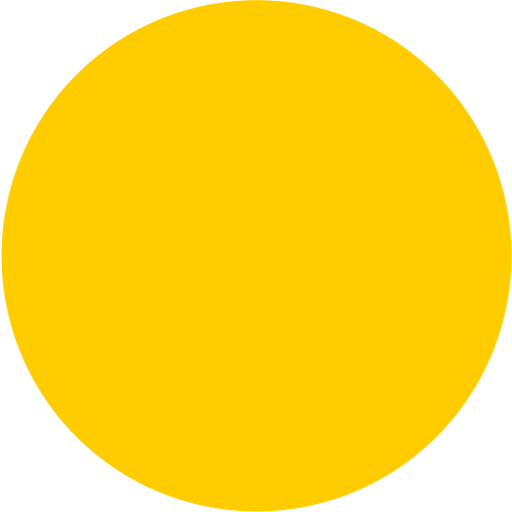
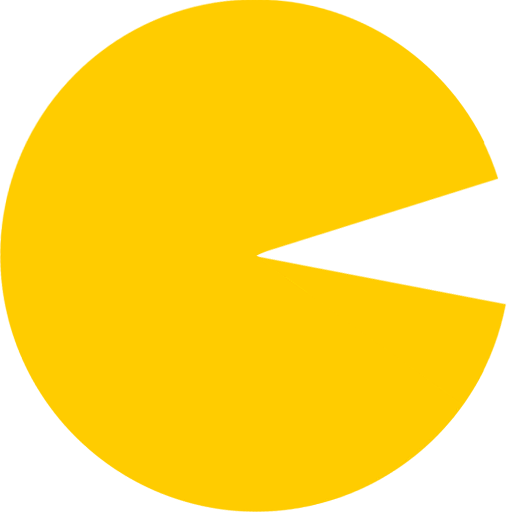
score

diff --git a/src/main/view/GameFrame.java b/src/main/view/GameFrame.java
@@ -22,10 +22,12 @@ public class GameFrame{
 
     private JPanel pan = new JPanel();
     private JPanel panUp = new JPanel();
+    private JPanel panDown = new JPanel();
 
     private JLabel level;
     private JLabel score;
     private JLabel highScore;
+    private JLabel lives;
 
     private Font font;
 
@@ -40,12 +42,23 @@ public class GameFrame{
         frame.setDefaultCloseOperation(WindowConstants.EXIT_ON_CLOSE);
         frame.setResizable(false);
         frame.setPreferredSize(new Dimension(WIDTH,HEIGHT));
+        frame.setContentPane(pan);
+        frame.setDefaultLookAndFeelDecorated(true);
+        frame.setExtendedState(Frame.MAXIMIZED_BOTH);
 
+        //pan.setLayout(new BoxLayout(pan,BoxLayout.PAGE_AXIS));
+
+        JPanel panMain = new JPanel();
+        panMain.setLayout(new BoxLayout(panMain,BoxLayout.Y_AXIS));
 
         panUp.setLayout(new GridLayout(1,2));
+        panDown.setLayout(new GridLayout(1,2));
+
         this.level = new JLabel();
         this.score = new JLabel();
         this.highScore = new JLabel();
+        this.lives = new JLabel();
+
 
         try {
            this.font  = Font.createFont(Font.TRUETYPE_FONT, new File("lib/VCR_OSD_MONO_1.001.ttf")).deriveFont(Font.PLAIN, 40);
@@ -57,6 +70,7 @@ public class GameFrame{
         this.level.setFont(this.font);
         this.score.setFont(this.font);
         this.highScore.setFont(this.font);
+        this.lives.setFont(this.font);
 
         this.level.setText("LEVEL 1");
         this.level.setForeground(Color.WHITE);
@@ -69,15 +83,24 @@ public class GameFrame{
         this.highScore.setForeground(Color.WHITE);
         this.highScore.setHorizontalAlignment(SwingConstants.RIGHT);
 
-        panUp.setBackground(Color.BLACK);
+        this.lives.setText("LIVES");
+        this.lives.setForeground(Color.WHITE);
+        this.lives.setHorizontalAlignment(SwingConstants.LEFT);
+
         pan.setBackground(Color.black);
+        panMain.setBackground(Color.black);
+        panUp.setBackground(Color.black);
+        panDown.setBackground(Color.black);
         canvas = new CanvasPane();
         canvas.setPreferredSize(new Dimension(WIDTH,HEIGHT));
-        frame.setContentPane(pan);
+
         panUp.add(this.score);
         panUp.add(this.highScore);
-        pan.add(panUp);
-        pan.add(canvas);
+        panDown.add(this.lives);
+        panMain.add(panUp);
+        panMain.add(canvas);
+        panMain.add(panDown);
+        pan.add(panMain);
         frame.pack();
 
         objects = new ArrayList<>();
@@ -105,6 +128,16 @@ public class GameFrame{
         this.highScore.validate();
     }
 
+    public void setLives(int lives){
+        if (lives > 1)
+            this.lives.setText("LIVES "+lives);
+        else
+            this.lives.setText("LIVE "+lives);
+        this.lives.validate();
+    }
+
+
+
     public static GameFrame getGameFrame()
     {
         if(instance == null) {
@@ -126,13 +159,15 @@ public class GameFrame{
         frame.setVisible(visible);
     }
 
-    public void setDimensionPan(Dimension dim){
-        System.out.println(this.pan.getSize().width);
-        this.pan.setPreferredSize(dim);
-        this.pan.revalidate();
-        this.panUp.setPreferredSize(dim);
+    public void setDimensionPan(int width, int height){
+        this.canvas.setPreferredSize(new Dimension(width,height));
+        this.canvas.revalidate();
+        this.panUp.setPreferredSize(new Dimension(width,40));
         this.panUp.revalidate();
-        System.out.println(this.pan.getSize().width);
+        this.panDown.setPreferredSize(new Dimension(width,40));
+        this.panDown.revalidate();
+        frame.setDefaultLookAndFeelDecorated(true);
+        frame.setExtendedState(Frame.MAXIMIZED_BOTH);
     }
 
     public void drawCharacter(Character c){

diff --git a/src/main/Game.java b/src/main/Game.java
@@ -22,11 +22,15 @@ public class Game {
         this.initialNumberOfLives = lives;
         this.numberOfLives = initialNumberOfLives;
         this.gameFrame = GameFrame.getGameFrame();
-        this.maze = new Maze(3);
+        this.maze = new Maze(1);
         this.maze.draw();
         this.gameFrame.redraw();
 
+        this.gameFrame.setHighScore(this.highScores.get(0));
+        this.gameFrame.setLives(lives);
+
     }
+
     
     public int getNumberOfLives() {
 		return this.numberOfLives;
@@ -38,6 +42,7 @@ public class Game {
 
 
     public void startGame() {
+        //this.isLost = false;
         this.level = 1;
         this.score = 0;
         boolean pacmanEaten = false;
@@ -82,6 +87,7 @@ public class Game {
                 if (!moved) {
                     nextTilePacman = maze.getTile(pacman, pacman.getDirection());
                     if (nextTilePacman != null) {
+                        // Checks if the tile isn't a wall
                         if (!nextTilePacman.isWall()) {
                             pacman.setLastTile(pacman.getTile());
                             pacman.move(nextTilePacman);
@@ -100,7 +106,6 @@ public class Game {
                                else
                                    score+=maze.getPillValue();
                                pillToRemove = p;
-                               score+=maze.getPillValue();
                                gameFrame.setScore(score);
                                if(score >= this.highScores.get(0)) {
                                    gameFrame.setHighScore(score);
@@ -161,7 +166,7 @@ public class Game {
 		    for(Ghost g: maze.getGhosts()) {
 		        g.erase();
             }
-		    this.maze = new Maze(3);
+		    this.maze = new Maze(2);
 
 
             this.maze.draw();
@@ -171,15 +176,23 @@ public class Game {
     }
 
     public void endGame() {
-        System.out.println("GAME OVER !");
-        this.highScores.add(score);
+        int sizeHighScores = this.highScores.size();
+        if(score > this.highScores.get(sizeHighScores-1)){
+            if(sizeHighScores < 10)
+                this.highScores.add(score);
+            else
+                this.highScores.add(sizeHighScores-1,score);
+        }
+
         Collections.sort(this.highScores);
+        Collections.reverse(this.highScores);
         saveHighScores();
 
     }
 
     public void loseLife() {
         this.numberOfLives--;
+        gameFrame.setLives(numberOfLives);
         Tile pacmanSpawnTile = null;
         Tile ghostSpawnTile = null;
         for(Tile t: this.getMaze().getTiles()) {
@@ -222,6 +235,7 @@ public class Game {
                 this.highScores.add(0);
             }
             Collections.sort(this.highScores);
+            Collections.reverse(this.highScores);
         }
         catch (Exception e){
             System.out.println(e.toString());

diff --git a/src/main/Pacman.java b/src/main/Pacman.java
@@ -15,9 +15,10 @@ public class Pacman extends Character {
     private Direction wantedDirection;
     private Direction direction;
 
-    protected BufferedImage image_op = null;
-    protected BufferedImage image_cl = null;
-    protected BufferedImage imageActual = null;
+    private BufferedImage image_op = null;
+    private BufferedImage image_cl = null;
+    private BufferedImage imageActualOp = null;
+    private BufferedImage imageActualCl = null;
 
     public Pacman(Tile tile){
     	super(tile);
@@ -27,7 +28,8 @@ public class Pacman extends Character {
         try {
             image_op = ImageIO.read(new File("lib/pacman_open.png"));
             image_cl = ImageIO.read(new File("lib/pacman_close.png"));
-            imageActual = image_op;
+            imageActualOp = image_op;
+            imageActualCl = image_cl;
         } catch (IOException ex) {
             System.out.println(ex.getMessage());
         }
@@ -43,14 +45,22 @@ public class Pacman extends Character {
 
     public void setDirection(Direction d) {
         this.direction = d;
-        if(this.direction == Direction.UP)
-            this.imageActual = rotateImage(image_op,270);
-        else if(this.direction == Direction.DOWN)
-            this.imageActual = rotateImage(image_op,90);
-        else if(this.direction == Direction.LEFT)
-            this.imageActual = rotateImage(image_op,180);
-        else
-            this.imageActual = image_op;
+        if(this.direction == Direction.UP) {
+            this.imageActualOp = rotateImage(image_op, 270);
+            this.imageActualCl = rotateImage(image_cl, 270);
+        }
+        else if(this.direction == Direction.DOWN) {
+            this.imageActualOp = rotateImage(image_op, 90);
+            this.imageActualCl = rotateImage(image_cl,90);
+        }
+        else if(this.direction == Direction.LEFT) {
+            this.imageActualOp = rotateImage(image_op, 180);
+            this.imageActualCl = rotateImage(image_cl,180);
+        }
+        else {
+            this.imageActualOp = image_op;
+            this.imageActualCl = image_cl;
+        }
     }
 
 
@@ -109,9 +119,9 @@ public class Pacman extends Character {
         BufferedImage ret;
 
         if(isOpenMouth)
-            ret = this.imageActual;
+            ret = this.imageActualOp;
         else
-            ret =  this.image_cl;
+            ret =  this.imageActualCl;
         isOpenMouth = !isOpenMouth;
         return ret;
 

diff --git a/src/main/Maze.java b/src/main/Maze.java
@@ -78,10 +78,10 @@ public class Maze {
 
             // On récupère la taille de la fenêtre pour adapter la taille des cases du tableau
             GameFrame gameFrame = GameFrame.getGameFrame();
-            this.tile_size = (int)((gameFrame.WIDTH-gameFrame.HEIGHT)/1.1/this.nbXTiles);
+            this.tile_size = (int)((gameFrame.WIDTH-gameFrame.HEIGHT)/1.15/this.nbXTiles);
 
-            int deltaX = (gameFrame.WIDTH-this.nbXTiles*this.tile_size)/2;
-            gameFrame.setDimensionPan(new Dimension(this.nbXTiles*this.tile_size,60));
+
+            gameFrame.setDimensionPan(this.nbXTiles*this.tile_size,this.nbYTiles*this.tile_size);
 
 
             int i = 0;
@@ -96,7 +96,7 @@ public class Maze {
 
                 for (String str : param) {
 
-                    tmpx = deltaX+j*this.tile_size;
+                    tmpx = j*this.tile_size;
                     tmpy = i*this.tile_size;
                     Tile newTile;
                     Pill newPill;
@@ -265,7 +265,7 @@ public class Maze {
     public ArrayList<Tile> getTilesAround(Character c) {
 
         Tile characterTile = c.getTile();
-        ArrayList<Tile> ret = new ArrayList<Tile>();
+        ArrayList<Tile> ret = new ArrayList<>();
         for(Tile t: tiles) {
             if(!t.isWall()) {
                 if (t.getX() >= characterTile.getX() - this.tile_size && t.getX() <= characterTile.getX() + this.tile_size) {
